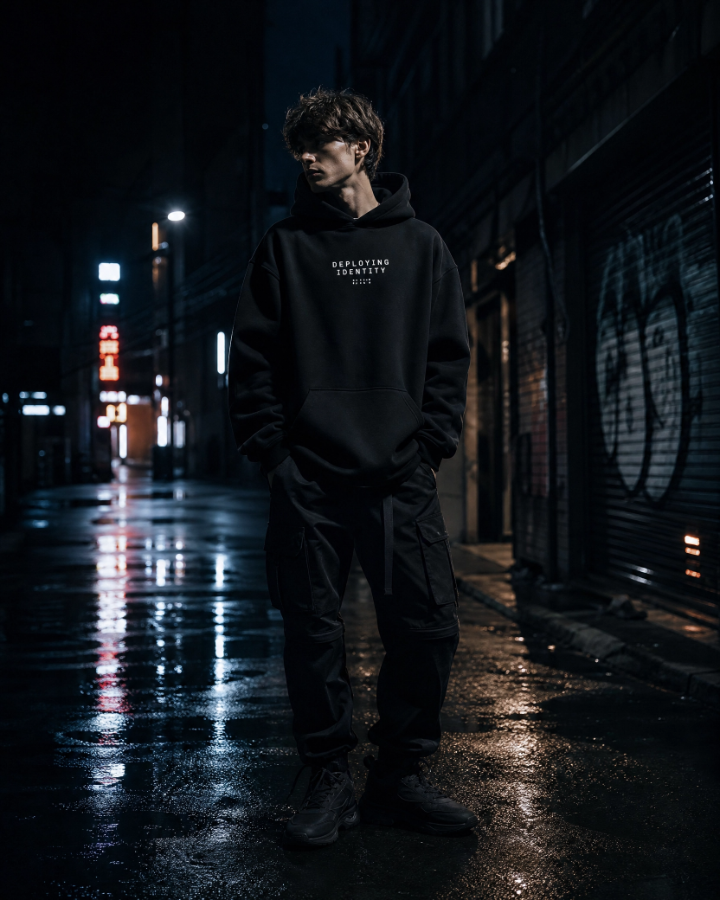
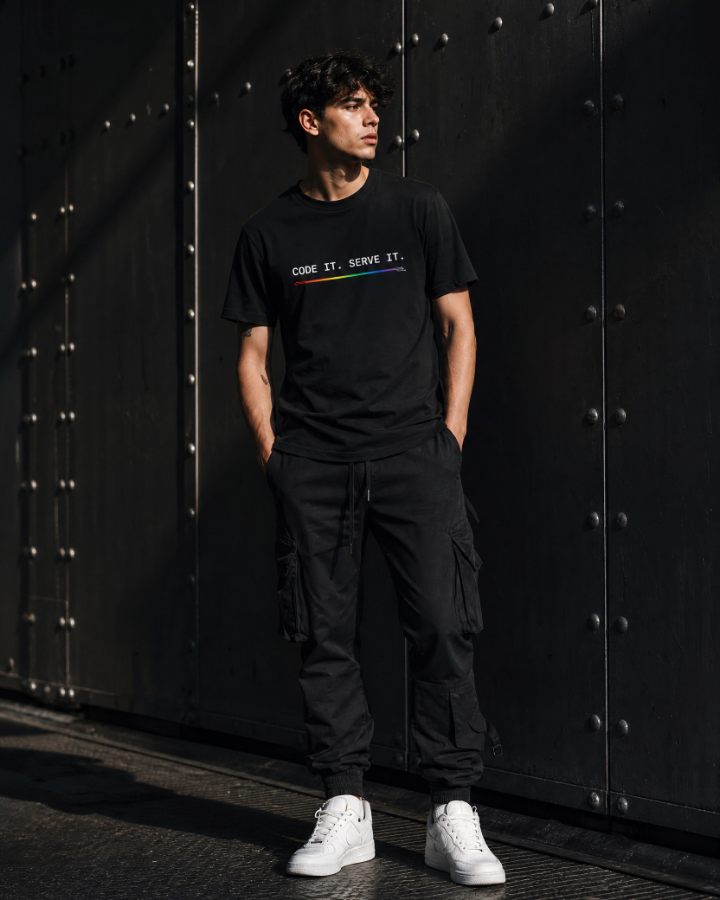
Fix mislabeled product photos and honest pricing in storefront catalog
- Swap model-tee-new.png / model-hoodie-new.png: files had the wrong photo for their name
- Correct catalog pricing: hoodie CA$78, tee CA$42
- Replace mispriced sticker-3-pack card with an honest 'Shop the full collection' tile

diff --git a/ui_kits/storefront/CollectionGrid.jsx b/ui_kits/storefront/CollectionGrid.jsx
@@ -3,11 +3,13 @@ import { ProductCard } from "../../components/storefront/ProductCard/ProductCard
 import { CircuitRule } from "../../components/core/CircuitRule/CircuitRule.jsx";
 
 const PRODUCTS = [
-  { id: "p1", image: "/model-tee-new.png", meta: "TEE", title: "Deploying Identity v2.0", price: "CA$42", badge: "New Drop", badgeTone: "new" },
-  { id: "p2", image: "/model-hoodie-new.png", meta: "HOODIE", title: "Please Hold, I'm Rebranding", price: "CA$78", badge: null },
+  { id: "p1", image: "/model-tee-new.png", meta: "HOODIE", title: "Deploying Identity v2.0", price: "CA$78", badge: "New Drop", badgeTone: "new" },
+  { id: "p2", image: "/model-hoodie-new.png", meta: "TEE", title: "Code It, Serve It.", price: "CA$42", badge: null },
   { id: "p3", image: "/model-cap-new.png", meta: "CAP", title: "Circuit Cap", price: "CA$34", badge: null },
-  { id: "p4", image: "/model-flatlay-new.png", meta: "STICKER · ×3", title: "The Full Drop", price: "CA$11", badge: "Bundle", badgeTone: "purple" },
 ];
+
+/** Collection overview tile — not a priced product, links out to the full catalog. */
+const COLLECTION_TILE = { image: "/model-flatlay-new.png", label: "Shop the full collection" };
 
 /**
  * Collection grid — filter rail + product grid.
@@ -45,6 +47,45 @@ export function CollectionGrid({ onOpen }) {
         {PRODUCTS.map((p) => (
           <ProductCard key={p.id} {...p} onClick={() => onOpen && onOpen(p)} />
         ))}
+        <div
+          style={{
+            position: "relative",
+            aspectRatio: "4 / 5",
+            overflow: "hidden",
+            border: "1px solid var(--border-hairline)",
+            cursor: "pointer",
+          }}
+        >
+          <img
+            src={COLLECTION_TILE.image}
+            alt={COLLECTION_TILE.label}
+            style={{ width: "100%", height: "100%", objectFit: "cover", opacity: 0.85 }}
+          />
+          <div
+            style={{
+              position: "absolute",
+              inset: 0,
+              display: "flex",
+              alignItems: "center",
+              justifyContent: "center",
+              background: "rgba(13,13,13,0.55)",
+            }}
+          >
+            <span
+              style={{
+                fontFamily: "var(--font-mono)",
+                fontSize: "12px",
+                letterSpacing: "0.14em",
+                textTransform: "uppercase",
+                color: "var(--fae-silver-hi)",
+                border: "1px solid var(--fae-silver)",
+                padding: "10px 18px",
+              }}
+            >
+              {COLLECTION_TILE.label} →
+            </span>
+          </div>
+        </div>
       </div>
     </section>
   );

diff --git a/ui_kits/storefront/Hero.jsx b/ui_kits/storefront/Hero.jsx
@@ -28,7 +28,7 @@ export function Hero({ onShop }) {
         </div>
         {/* Right — image well */}
         <div style={{ position: "relative", background: "var(--bg-sunken)", borderLeft: "1px solid var(--border-hairline)", overflow: "hidden" }}>
-          <img src="/model-tee-new.png" alt="FÆBRIQ flagship tee on model" style={{ width: "100%", height: "100%", objectFit: "cover", opacity: 0.96 }} />
+          <img src="/model-hoodie-new.png" alt="FÆBRIQ Code It, Serve It. tee on model" style={{ width: "100%", height: "100%", objectFit: "cover", opacity: 0.96 }} />
           <div style={{ position: "absolute", bottom: "20px", left: "20px", fontFamily: "var(--font-mono)", fontSize: "10px", letterSpacing: "0.14em", textTransform: "uppercase", color: "var(--text-faint)" }}>
             FAE-TEE-001 · Premium cotton · S–XL
           </div>

diff --git a/ui_kits/storefront/ProductDetail.jsx b/ui_kits/storefront/ProductDetail.jsx
@@ -7,7 +7,7 @@ import { CircuitRule } from "../../components/core/CircuitRule/CircuitRule.jsx";
  * Product detail — image well + buy column, sticky to the drop.
  */
 export function ProductDetail({ product, onBack, onAdd }) {
-  const p = product || { image: "/model-tee-new.png", meta: "TEE", title: "Deploying Identity v2.0", price: "CA$42", badge: "New Drop", badgeTone: "new" };
+  const p = product || { image: "/model-tee-new.png", meta: "HOODIE", title: "Deploying Identity v2.0", price: "CA$78", badge: "New Drop", badgeTone: "new" };
   const [size, setSize] = React.useState("M");
   const sizes = ["S", "M", "L", "XL"];
 
